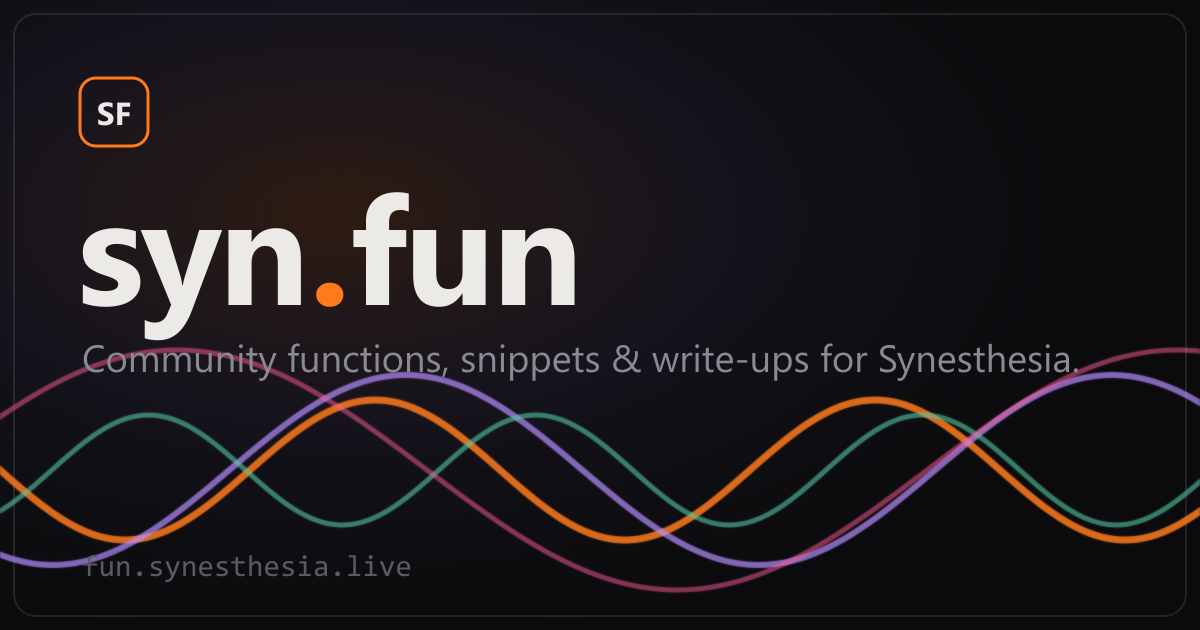
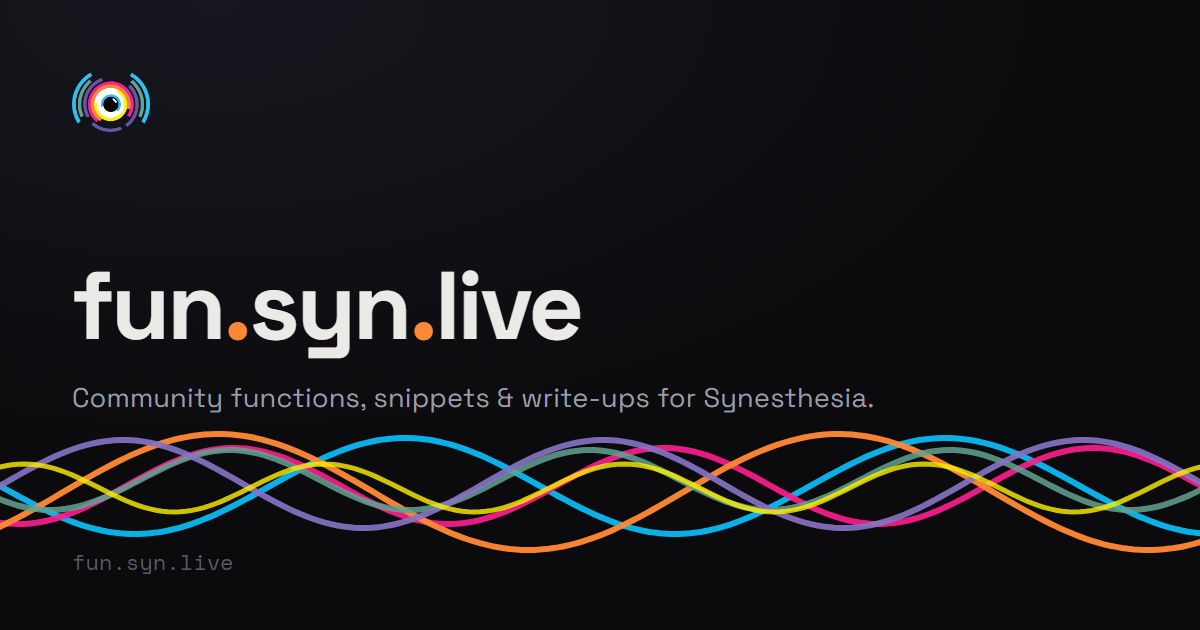
Update branding and domain references to fun.syn.live
- Change all instances of syn.fun to fun.syn.live across documentation and code.
- Update favicon and logo to reflect new branding.
- Adjust sitemap URL in robots.txt for the new domain.
- Modify color palette in global.css to align with updated branding.
- Revise descriptions in various components to match the new site identity.

diff --git a/src/styles/global.css b/src/styles/global.css
@@ -7,10 +7,20 @@
   --text: #eceae6;
   --muted: #8a8a94;
   --faint: #5a5a63;
-  --orange: #ff7a1a;
-  --teal: #54c9a6;
-  --magenta: #ff5c97;
-  --purple: #b58cff;
+
+  /* Synesthesia brand palette (synesthesia.live). Exact brand hues, except
+     --purple is lightened one step from the brand #6751b3 for legibility on
+     the near-black background. --teal stays as a legacy alias for the snippet
+     accent, now mapped to the brand green. */
+  --orange: #ff8834;
+  --magenta: #fa1e8d;
+  --purple: #8573c1;
+  --green: #62a292;
+  --cyan: #0abff7;
+  --yellow: #fff100;
+  --red: #a22e3f;
+  --teal: var(--green);
+
   --font-ui: 'Space Grotesk', 'Segoe UI', sans-serif;
   --font-mono: 'Space Mono', 'Cascadia Mono', monospace;
   color-scheme: dark;
@@ -86,16 +96,9 @@ select {
 }
 
 .brand-mark {
-  width: 22px;
-  height: 22px;
-  border: 1px solid var(--line-strong);
-  border-radius: 999px;
-  display: inline-flex;
-  align-items: center;
-  justify-content: center;
-  font-family: var(--font-mono);
-  font-size: 11px;
-  color: var(--orange);
+  width: 24px;
+  height: 24px;
+  object-fit: contain;
 }
 
 .brand-name {

diff --git a/src/site.ts b/src/site.ts
@@ -35,7 +35,7 @@ function repoPath(pathname: string) {
 }
 
 export const site = {
-  name: 'syn.fun',
+  name: 'fun.syn.live',
   repoUrl,
   repoBranch
 };

diff --git a/LAUNCH.md b/LAUNCH.md
@@ -1,17 +1,17 @@
-# Launch checklist — syn.fun → fun.syn.live / fun.synesthesia.live (domain TBD)
+# Launch checklist — fun.syn.live
 
 Decisions made (2026-06-11):
 - Hosting: **DigitalOcean App Platform** (static site, free tier).
 - Seed content: **launch lean** — prune to 2–3 entries with real bodies.
 - `snippet` type vs site naming: fine as is.
 
+Domain — settled (2026-06-15) on **`fun.syn.live`** for now (keeps the playful "fun" brand). In-app
+brand, OG meta (title + url), header, README, robots/sitemap now all read `fun.syn.live`. Needs
+carving out of the `syn.live`→`synesthesia.live` redirect (see DNS). The real Synesthesia logo is
+now the header mark + favicon, and `public/og.png` has been regenerated with the logo, the
+`fun.syn.live` wordmark, and brand-color waves.
+
 Open decisions (for the 6/15 meeting):
-- **Domain** (we own `synesthesia.live` main + `syn.live` which redirects to main; these read best on
-  the short `syn.live` root). Shortlist: **`lib`** (lean — says what it is, ages well as the library
-  grows), **`recipes`**, **`fun`** (keeps the "syn.fun" brand). `share` reserved (likely wanted
-  elsewhere). `snippets.*` out (collides w/ the VS Code ext + the `community-snippets` repo name).
-  Note: a `*.syn.live` choice needs carving out of the `syn.live`→`synesthesia.live` redirect.
-  If the URL goes descriptive (`lib`/`recipes`), decide whether the in-app brand stays "syn.fun".
 - **Approach:** static / GitHub-PR contribution (as built) vs app-server login. Recommend staying
   static for launch — the whole submission flow is GitHub-based; login is a future option, not needed now.
 

diff --git a/README.md b/README.md
@@ -1,7 +1,7 @@
-# syn.fun
+# fun.syn.live
 
-Minimal Astro site for a GitHub-backed community library around synesthesia coding.
-Planned home: `fun.synesthesia.live`.
+Minimal Astro site for a GitHub-backed community library around Synesthesia coding.
+Planned home: `fun.syn.live`.
 
 ## What this is
 
@@ -85,8 +85,8 @@ npm run dev
 - Create the app from this repo: type **Static Site**, build command `npm run build`,
   output directory `dist`, auto-deploy on push to `main`.
 - Env vars:
-  - `SITE_URL=https://fun.synesthesia.live` (canonical URLs + sitemap)
-  - `PUBLIC_REPO_URL=https://github.com/<org>/<repo>` (submit/edit buttons)
+  - `SITE_URL=https://fun.syn.live` (canonical URLs + sitemap)
+  - `PUBLIC_REPO_URL=https://github.com/gravity-current/community-snippets` (submit/edit buttons)
   - `PUBLIC_REPO_BRANCH=main` (only if not `main`)
 - Add the custom domain in App Platform and CNAME it to the app's default hostname.
 